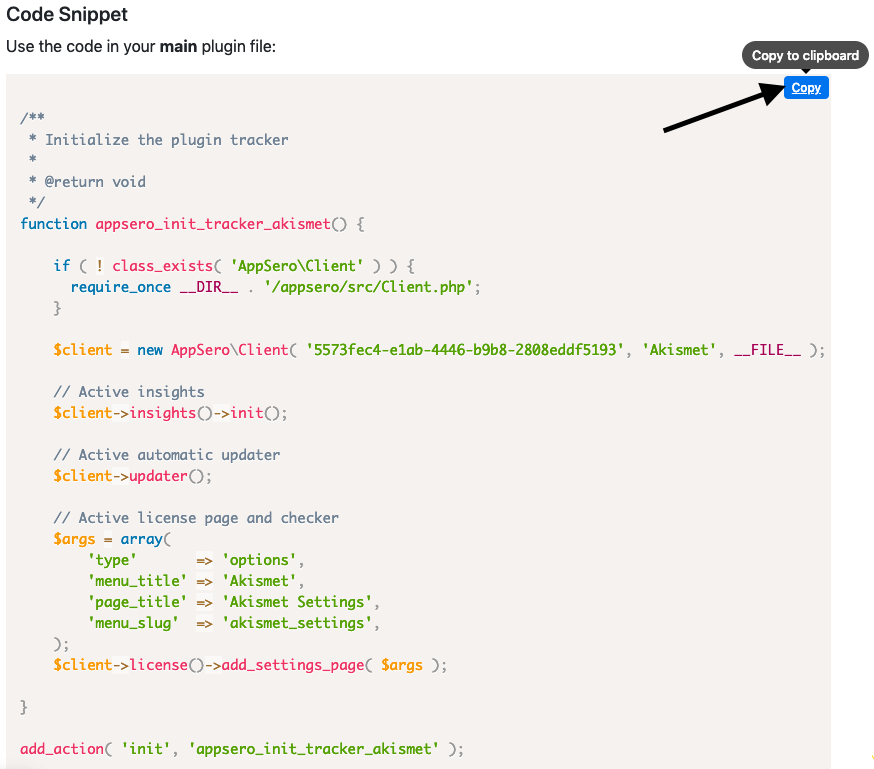
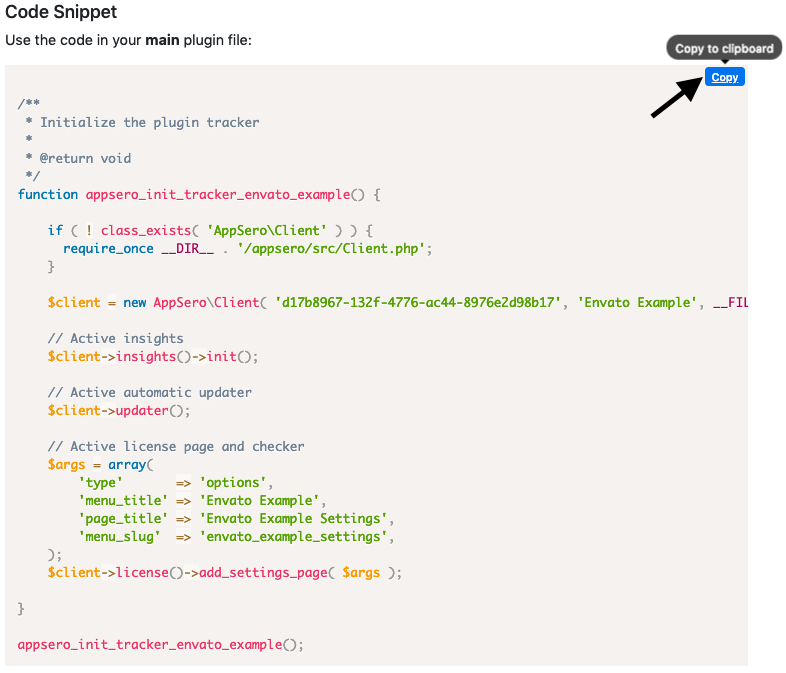
Update Code Snippet and Screenshots

diff --git a/docs/developer-guide/appsero-client.md b/docs/developer-guide/appsero-client.md
@@ -87,7 +87,7 @@ function appsero_init_tracker_appsero_test() {
     $client->license()->add_settings_page( $args );
 }
 
-add_action( 'init', 'appsero_init_tracker_appsero_test' );
+appsero_init_tracker_appsero_test();
 ```
 
 > For plugins example code that needs to be used on your main plugin file.
